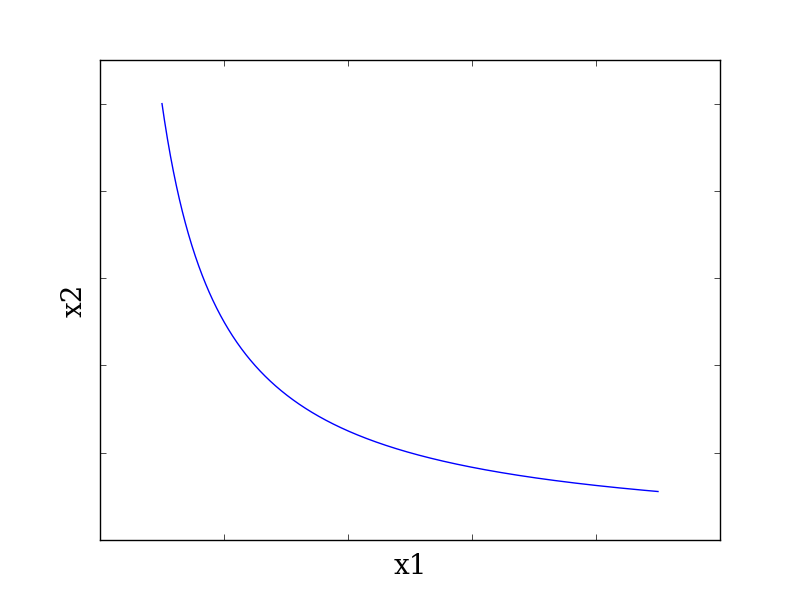
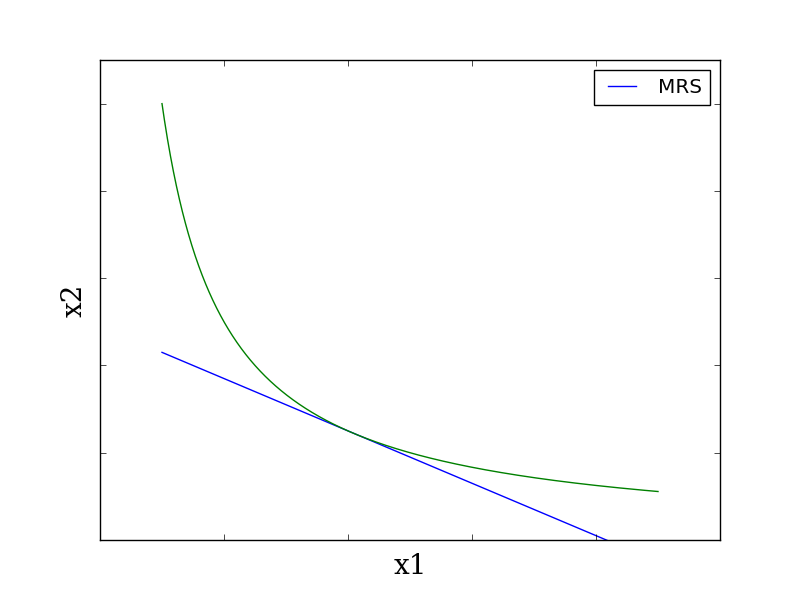
added 03

diff --git a/03.md b/03.md
@@ -24,3 +24,61 @@ $$U_1(x_1, x_2)\ \times \dfrac{1}{U_2(x_1, x_2)} = \dfrac{U_1(x_1, x_2)}{U_2(x_1
 だけ増加させることによって補われる。よって、
 $$\mathrm{MRS}_{21} = \dfrac{U_1(x_1, x_2)}{U_2(x_1, x_2)}$$
 が成立する。
+
+### 消費者の目的 = 効用の最大化を考える
+
+現実の世界では、個人の予算に限りがあるので、これを考慮する。  
+$\mathrm{Max}\ U(x_1, x_2)$  
+$s.t\ (\mathrm{subject\ to})\ \ \ P_1x_1 + P_2x_2 = M \cdots \mathrm{予約制約式}$  
+$given\ \ P_1, P_2, M$  
+ただし、  
+$P_1$：第1財の価格（ひとまず一定）
+$P_2$：第2財の価格  
+$x_1$：第1財の消費量  
+$x_2$：第2財の消費量  
+$M$：予算  
+
+今、予算制約式は、下図のように描ける。線分$AB$上の点、および横軸縦軸でかこまれた領域が、選択可能な範囲。  
+線分$AB$：予算線  
+$\Delta ABO$：予算集合
+
+![予算線](img/03/03_02.png)
+
+これに無差別曲線（IC）を組み合わせる。　 
+今、ある個人の無差別曲線は無数に描けるが、選択可能な$x_1$と$x_2$の組み合わせは、予算集合の中のみ。  
+右上の無差別曲線ほど高い効用を示すので、無差別曲線と予算線が接する$A$が効用最大。  
+$C$や$D$も選択可能だが、効用は最大化されていない。
+
+![効用最大化](img/03/03_03.jpg)
+
+$A$点は次の条件を満たす。（主体的均衡条件）  
+$P_1x_1 + P_2x_2 = M \cdots \mathrm{予算制約式}$  
+$\mathrm{MRS}_{21} = \dfrac{P_1}{P_2}$  
+第2財の第1財に対する限界代替率が、2財の価格比に等しくなるように消費したときに、効用は最大。  
+かつ$\mathrm{MRS}_{21}$は、2財の限界効用比$\dfrac{U_1(x_1, x_2)}{U_2(x_1, x_2)}$に等しいので、
+$\dfrac{U_1(x_1, x_2)}{U_2(x_1, x_2)} = \dfrac{P_1}{P_2}$となる。
+
+今、主体的均衡条件を満たす点を、
+$$x^* = (x_1^*(P_1, P_2, M), x_2^*(P_1, P_2, M))$$
+と書くことにする。  
+$x_1^*(P_1, P_2, M)$：第1財の個別需要関数  
+$x_2^*(P_1, P_2, M)$：第2財の個別需要関数
+
+_個別需要関数の性質_  
+1. $\left(\begin{array}{c} P_1 \\ P_2 \\ M \end{array}\right) \rightarrow \left(\begin{array}{c} kP_1 \\ kP_2 \\ kM \end{array}\right)$ ($k$: 定数)のとき、$x^*$はどのように変化するか。  
+→ 変化しない  
+名目価値の上昇は、$x^*$に影響_しない_  
+→ 個別需要の0次同時性
+
+2. $\left(\begin{array}{c} P_1 \\ P_2 \\ M \end{array}\right) \rightarrow \left(\begin{array}{c} P_1 \\ P_2 \\ kM \end{array}\right)$ ($k$: 1より大きい正の定数)のとき  
+予算線が、_右上にシフト_  
+2財の価格は不変なので、傾きは不変。
+→ $x_1, x_2$の消費量が_増加する_。
+
+所得が増加したときの最適消費を表す点を繋いだものを所得消費曲線と呼び、$x_1, x_2$ と $M$ の関係を描いたものを、エンゲル曲線と呼ぶ。  
+通常、エンゲル曲線は右上がりの曲線。  
+この場合、その財のことを正常財（上級財）と呼ぶ。
+時として、エンゲル曲線が右下りになることがあり、この場合その財のことを劣等財（下級財）と呼ぶ。
+
+
+
